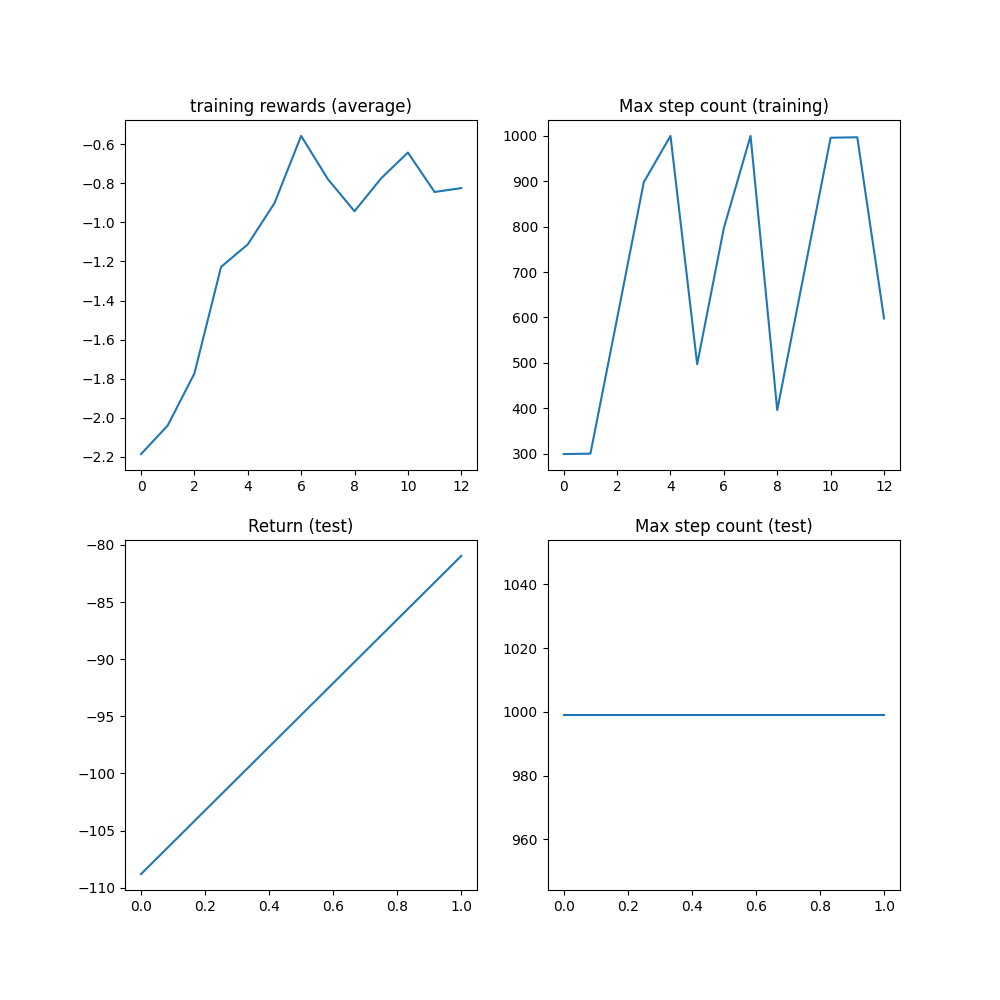
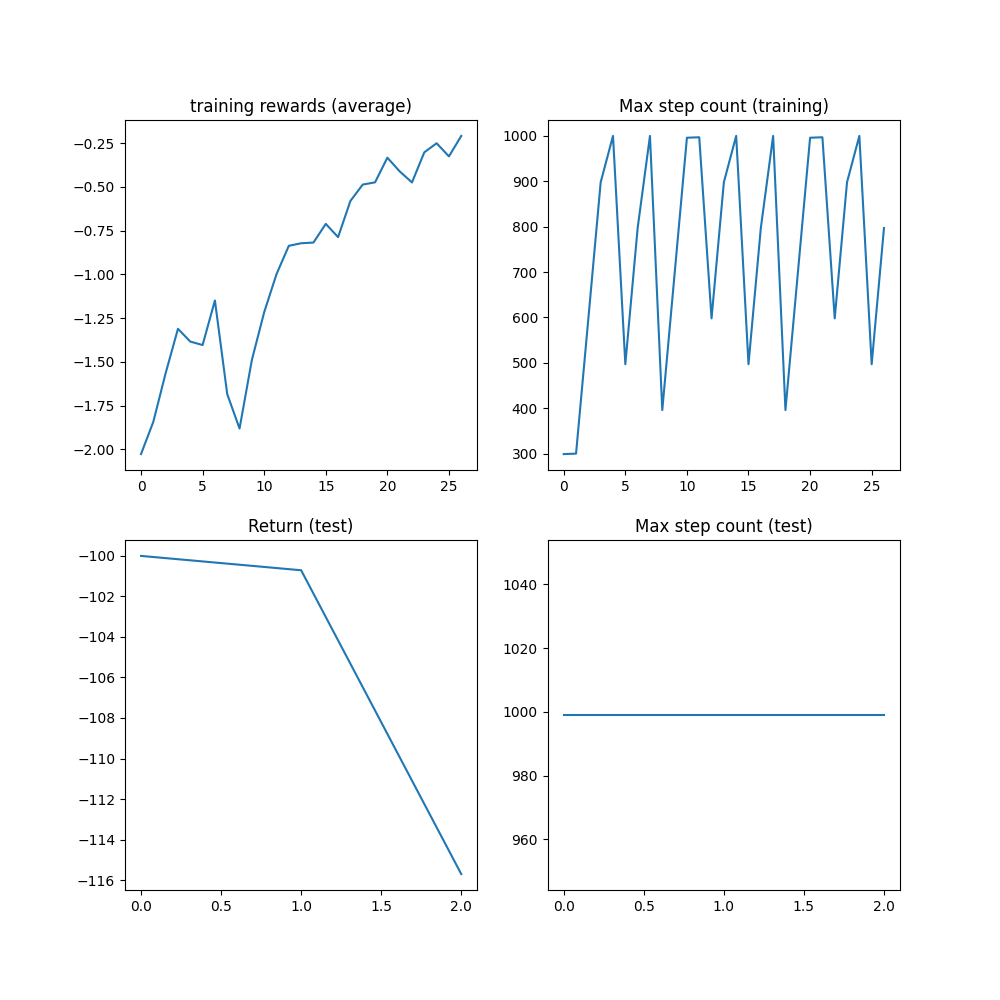
remove print statements and clean out actors

diff --git a/main.py b/main.py
@@ -118,8 +118,8 @@ class ActorNet(nn.Module):
 
 
     def forward(self, lidar, state):
-        print("lidar shape:", lidar.shape)
-        print("state shape:", state.shape)
+        # print("lidar shape:", lidar.shape)
+        # print("state shape:", state.shape)
         no_batch = lidar.dim() == 3
         lidar = lidar.movedim(-1, -3)
         if no_batch:
@@ -130,8 +130,8 @@ class ActorNet(nn.Module):
         if no_batch:
             cnn_out = cnn_out.squeeze(0)
 
-        print("cnn_out shape:", cnn_out.shape)
-        print("state shape after unsqueeze:", state.shape)
+        # print("cnn_out shape:", cnn_out.shape)
+        # print("state shape after unsqueeze:", state.shape)
         concatenated = torch.cat([cnn_out, state], dim=-1)
         mlp_out = self.mlp(concatenated)
         return mlp_out
@@ -160,8 +160,8 @@ class ValueNet(nn.Module):
         )
 
     def forward(self, lidar, state):
-        print("lidar shape:", lidar.shape)
-        print("state shape:", state.shape)
+        # print("lidar shape:", lidar.shape)
+        # print("state shape:", state.shape)
         no_batch = lidar.dim() == 3
         lidar = lidar.movedim(-1, -3)
         if no_batch:

diff --git a/gym_carla/envs/carla_env.py b/gym_carla/envs/carla_env.py
@@ -95,6 +95,7 @@ class CarlaEnv(gymnasium.Env):
         self.world = client.get_world()
     print('Carla server connected!')
     for actor in self.world.get_actors().filter('sensor.*'):
+      print('Destroying actor id: %d, type: %s' % (actor.id, actor.type_id))
       actor.destroy()
 
     # Set weather
